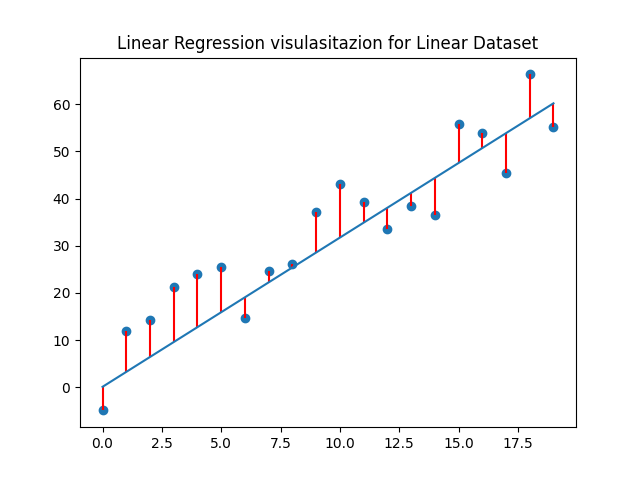
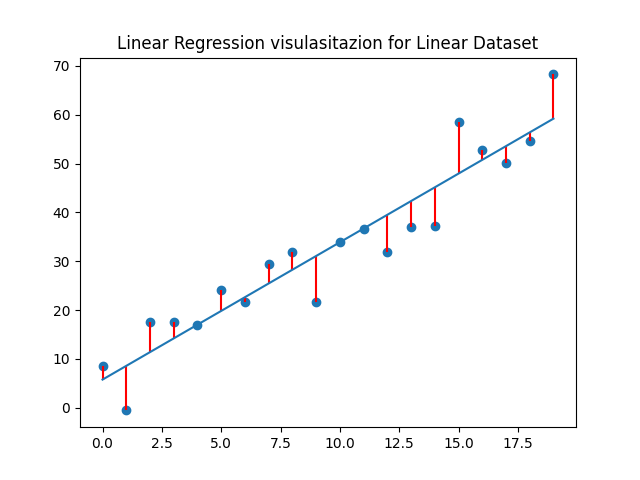
updated lienar function with least Square Method

diff --git a/new_linear.py b/new_linear.py
@@ -1,0 +1,86 @@
+import matplotlib.pyplot as plt
+import numpy as np
+import random
+from scipy import interpolate 
+from sklearn.metrics import mean_squared_error
+var = 20
+
+#x = [random.randrange(1,var,2) for i in range(var)]
+#y = [2 + 2*x[i] + random.randrange(1,var,2) for i in range(var)]
+
+#create rnd linear dataset
+x = np.arange(var)
+delta = np.random.uniform(-10,10,size=(var,))
+y = 4 + x*3 + delta
+
+dic = {}
+
+for i,j in enumerate(x):
+    dic[j] = y[i]
+
+#problem: because the numbers are generated randomly, there a multiple x values with different y values.. how should i fix this shit
+
+
+
+#ynew = [dic[x[0]],dic[x[len(x)-1]]]
+#xnew = [x[0],x[len(x)-1]]
+
+xnew = sum(x)/len(x)
+ynew = sum(y)/len(y)
+
+#slope = (ynew[0]-ynew[1])/(xnew[0]-xnew[1])
+#Using Least Squre Method to find Line of best fit
+def slope(x,y,xnew,ynew):
+    sum_xy = []
+    sum_x2 = []
+    for i,j in enumerate(x):
+        sum_xy.append((x[i] - xnew)*(y[i]-ynew))
+        sum_x2.append((x[i] - xnew)**2)
+    return sum(sum_xy)/sum(sum_x2)
+
+slope_xy = slope(x,y,xnew,ynew)
+start_value = ynew - slope_xy*xnew
+
+def grade(x):
+    f = []
+    for i,j in enumerate(x):
+        f.append(start_value + slope_xy * x[i])
+    return f
+
+#for j in y:
+#    if len(y) == len(x):
+#        break 
+#    else:
+#        y.remove(j)
+#
+newf = grade(x)
+for i,j in enumerate(y):
+    if j > newf[i]:
+        plt.vlines(x[i], newf[i], y[i],colors='r', linestyles='solid')
+    else:
+        plt.vlines(x[i], y[i], newf[i],colors='r', linestyles='solid')
+
+#write this a bit prettier bruv, very ugly solution so far  
+
+
+def distance(y,y_l):
+    sum_len = []  
+    for i,j in enumerate(y):
+        sum_len.append((y[i]-y_l[i])**2)
+    return sum_len
+
+def mse(distance,x):
+    return ((1/len(x)) * sum(distance))
+
+print(mse(distance(y,newf),x))
+plt.scatter(x,y)
+plt.title("Linear Regression visulasitazion for Linear Dataset")
+plt.plot(x,newf)
+plt.savefig("assets/test_linear_mse_1.png")
+plt.show()
+plt.close()
+
+
+
+
+
